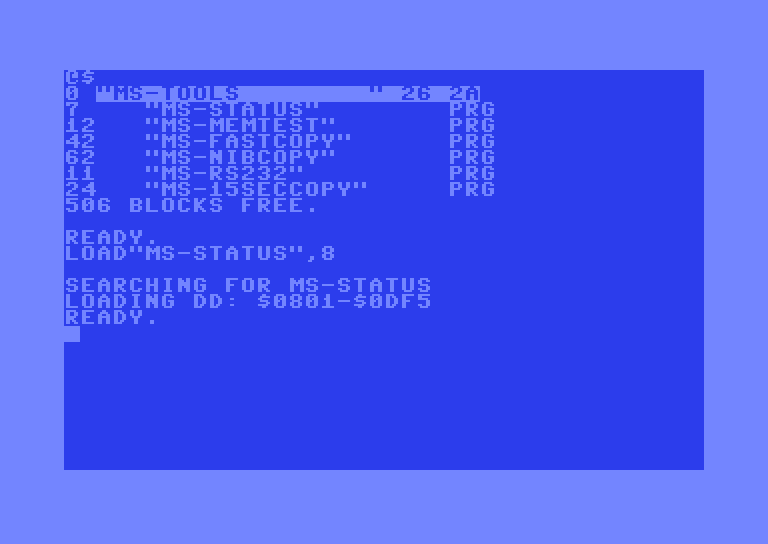
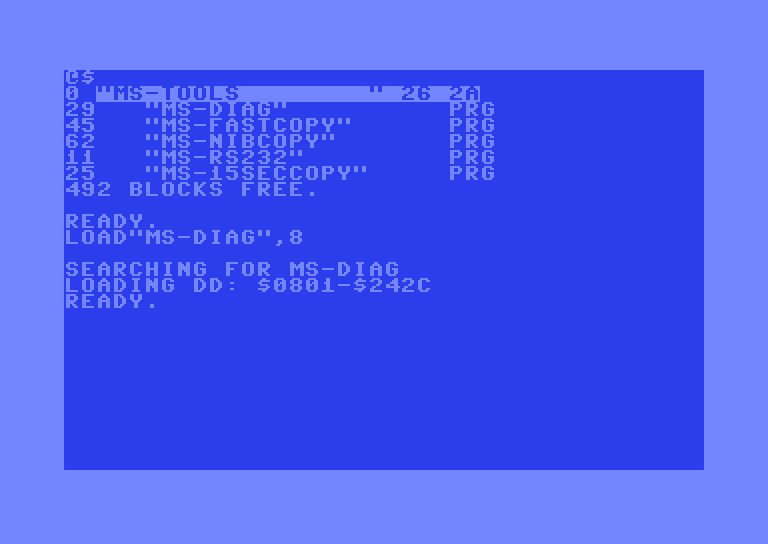
Release MS-DIAG (Multi-Speeder Diagnostic Tool)

Changed region(s): [[0.0625, 0.1875, 0.5625, 0.625], [0.5938, 0.3125, 0.6562, 0.375]]

diff --git a/README.md b/README.md
@@ -140,8 +140,7 @@ The **MS-Tools** are the toolbox of the project: a set of C64 programs on one di
 | **MS-FASTCOPY** | Copies a whole disk through the 512 KB RAM of the Multi-Speeder or a REU, with its own fast drive code. 35 or 40 tracks, verify, several copies in a row, directory view. Imports and exports **D64 files** – the direct bridge between real disks and the SD2IEC; on the 1571 also double-sided disks and D71 files. |
 | **MS-NIBCOPY** (beta) | A nibble copier after the model of nibtools, running on the real machine: reads and writes tracks bit by bit, including syncs, gaps, tracks 36 to 42, half tracks and weak bits. Imports and exports **G64 files**. |
 | **MS-15SECCOPY** | A new version of the classic **15 Seconds Copy** by Mike Pall (1986): copies a disk as raw GCR over the parallel cable and shows every track and sector in a grid. An original 1541 ROM and the original kernal are enough – only a parallel cable and a REU are needed. |
-| **MS-MEMTEST** | Tests the 512 KB RAM of the Multi-Speeder bank by bank – the first program to run after building the board. |
-| **MS-STATUS** | Shows the error channel of the drive at a keypress. |
+| **MS-DIAG** | The diagnostic program – the first one to run after building the board: tests the 512 KB RAM bank by bank, the parallel connection, the switching of all eight ROM banks, and CDR, CDW and the RAM disk with a test disk. All tests can also run as a burn-in. |
 | **MS-RS232** | An RS-232 driver in RAM for programs that need the serial interface. |
 
 MS-FASTCOPY also works without a Multi-Speeder: a REU and a parallel connection are enough, for example on the Commodore 64 Ultimate with DolphinDos26UL.
@@ -150,7 +149,7 @@ MS-FASTCOPY also works without a Multi-Speeder: a REU and a parallel connection 
 <img src="assets/ms_05_fastcopy.png" alt="MS-FASTCOPY" width="380">
 <img src="assets/ms_07_nibcopy.png" alt="MS-NIBCOPY" width="380">
 <img src="assets/ms_11_15seccopy.png" alt="MS-15SECCOPY" width="380">
-<img src="assets/ms_03_memtest.png" alt="MS-MEMTEST" width="380">
+<img src="assets/ms_03_diag.png" alt="MS-DIAG" width="380">
 </p>
 
 → Disk image, single programs and the manual: [github.com/FraEgg/DolphinDOS](https://github.com/FraEgg/DolphinDOS)
@@ -320,8 +319,7 @@ Die **MS-Tools** sind der Werkzeugkasten des Projekts: eine Sammlung von C64-Pro
 | **MS-FASTCOPY** | Kopiert eine ganze Diskette über das 512-KB-RAM des Multi-Speeders oder eine REU, mit eigenem schnellen Laufwerkscode. 35 oder 40 Spuren, Verify, mehrere Kopien nacheinander, Directory-Anzeige. Importiert und exportiert **D64-Dateien** – die direkte Brücke zwischen echten Disketten und dem SD2IEC; an der 1571 auch doppelseitige Disketten und D71-Dateien. |
 | **MS-NIBCOPY** (Beta) | Ein Nibble-Kopierer nach dem Vorbild der nibtools, direkt am echten Rechner: liest und schreibt Spuren bitgenau, einschließlich Syncs, Lücken, Spur 36 bis 42, Halbspuren und Weak Bits. Importiert und exportiert **G64-Dateien**. |
 | **MS-15SECCOPY** | Eine neue Fassung des Klassikers **15 Seconds Copy** von Mike Pall (1986): kopiert eine Diskette als rohes GCR über das Parallelkabel und zeigt jede Spur und jeden Sektor in einem Raster. Original-1541-ROM und Original-Kernal genügen – nötig sind nur ein Parallelkabel und eine REU. |
-| **MS-MEMTEST** | Prüft die 512 KB RAM des Multi-Speeders Bank für Bank – das erste Programm nach dem Aufbau der Platine. |
-| **MS-STATUS** | Zeigt den Fehlerkanal des Laufwerks auf Tastendruck. |
+| **MS-DIAG** | Das Diagnoseprogramm – das erste nach dem Aufbau der Platine: prüft die 512 KB RAM Bank für Bank, die Parallelverbindung, das Umschalten aller acht ROM-Bänke sowie CDR, CDW und die RAM-Disk mit einer Testdiskette. Alle Tests laufen auch als Burn-In. |
 | **MS-RS232** | Ein RS-232-Treiber im RAM für Programme, die die serielle Schnittstelle brauchen. |
 
 MS-FASTCOPY geht auch ohne Multi-Speeder: Eine REU und eine Parallelverbindung genügen, zum Beispiel am Commodore 64 Ultimate mit DolphinDos26UL.
@@ -330,7 +328,7 @@ MS-FASTCOPY geht auch ohne Multi-Speeder: Eine REU und eine Parallelverbindung g
 <img src="assets/ms_05_fastcopy.png" alt="MS-FASTCOPY" width="380">
 <img src="assets/ms_07_nibcopy.png" alt="MS-NIBCOPY" width="380">
 <img src="assets/ms_11_15seccopy.png" alt="MS-15SECCOPY" width="380">
-<img src="assets/ms_03_memtest.png" alt="MS-MEMTEST" width="380">
+<img src="assets/ms_03_diag.png" alt="MS-DIAG" width="380">
 </p>
 
 → Disketten-Abbild, einzelne Programme und das Handbuch: [github.com/FraEgg/DolphinDOS](https://github.com/FraEgg/DolphinDOS)
